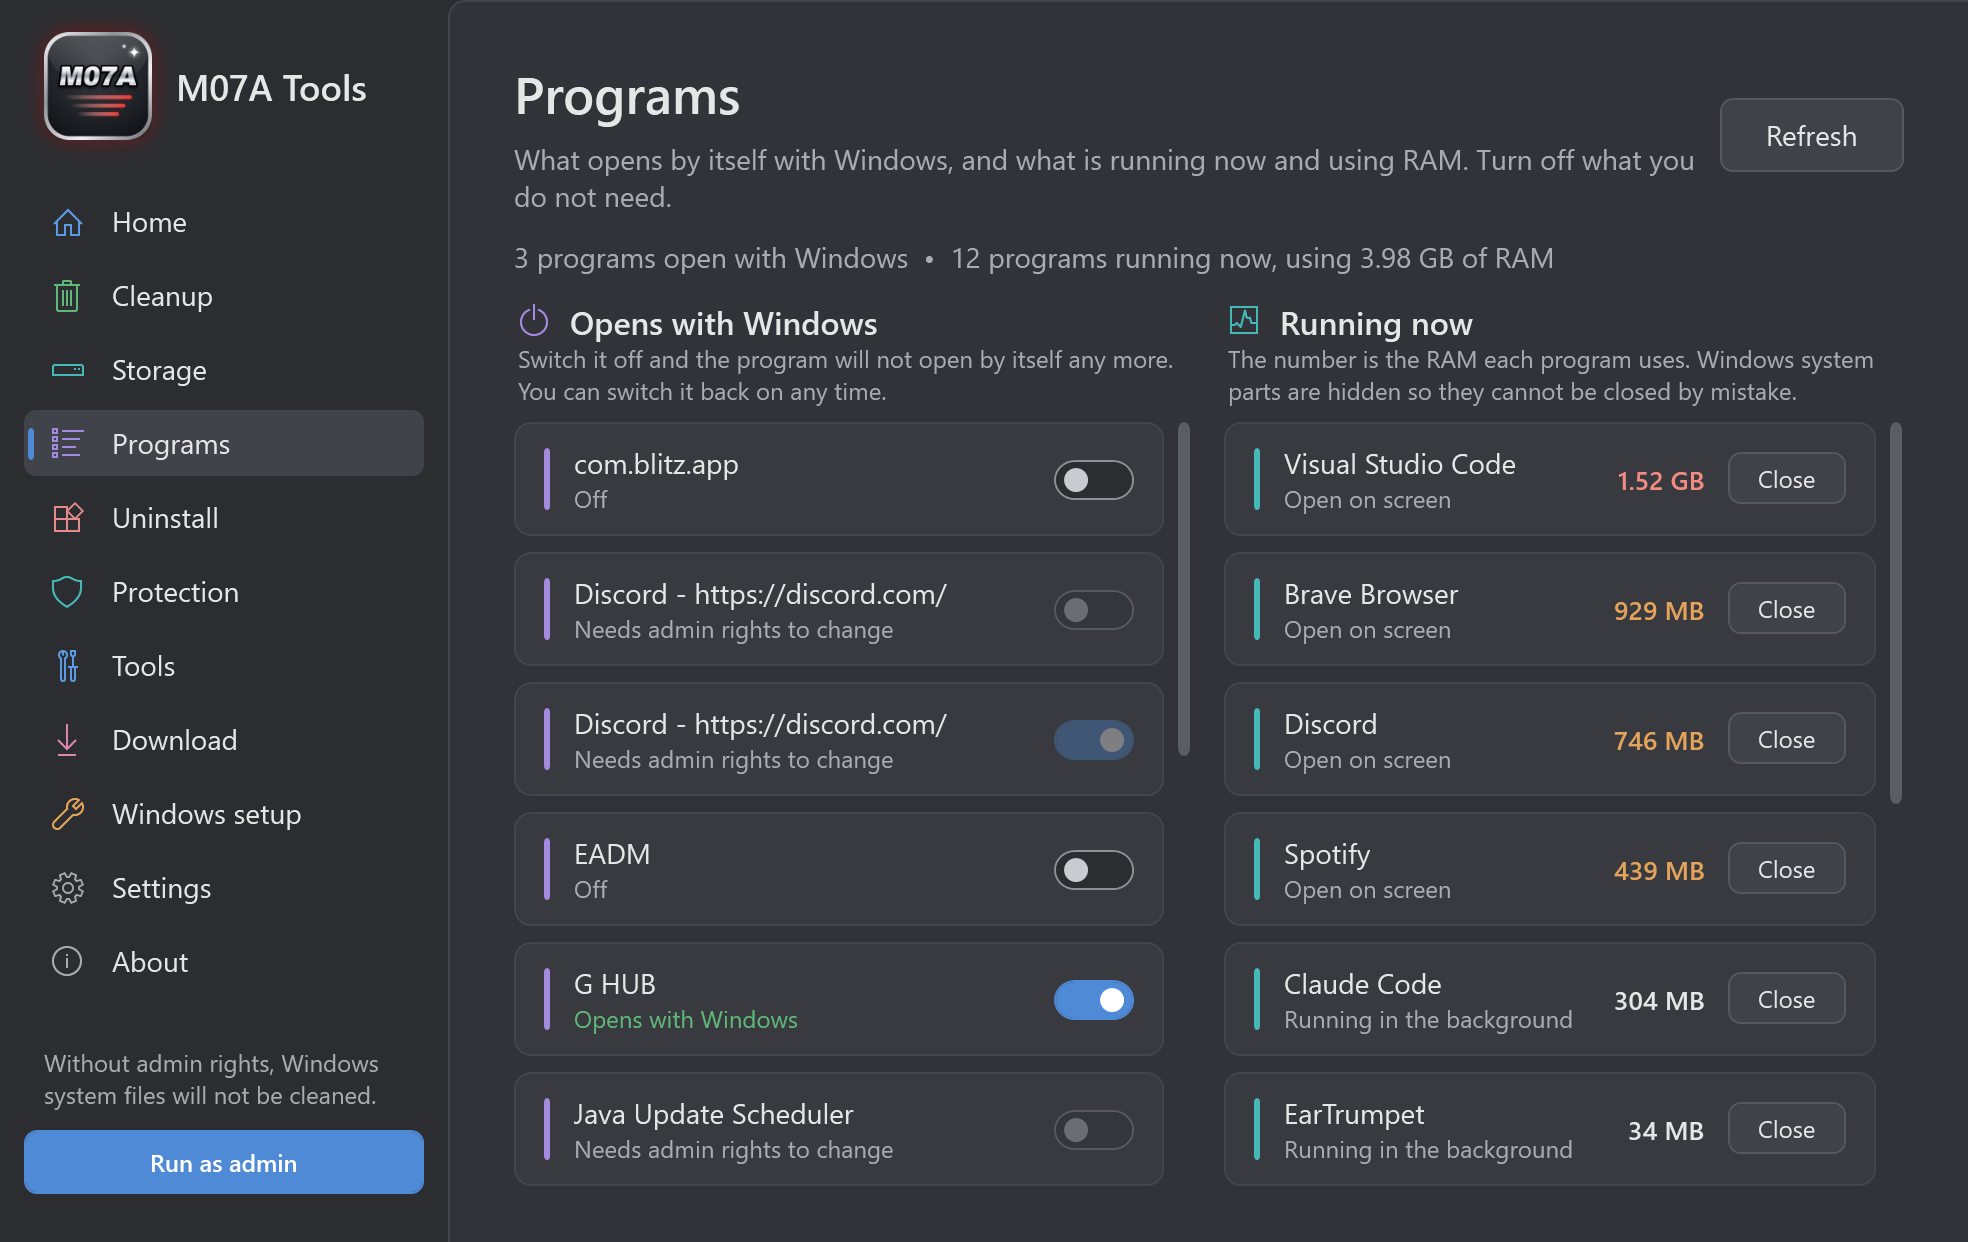
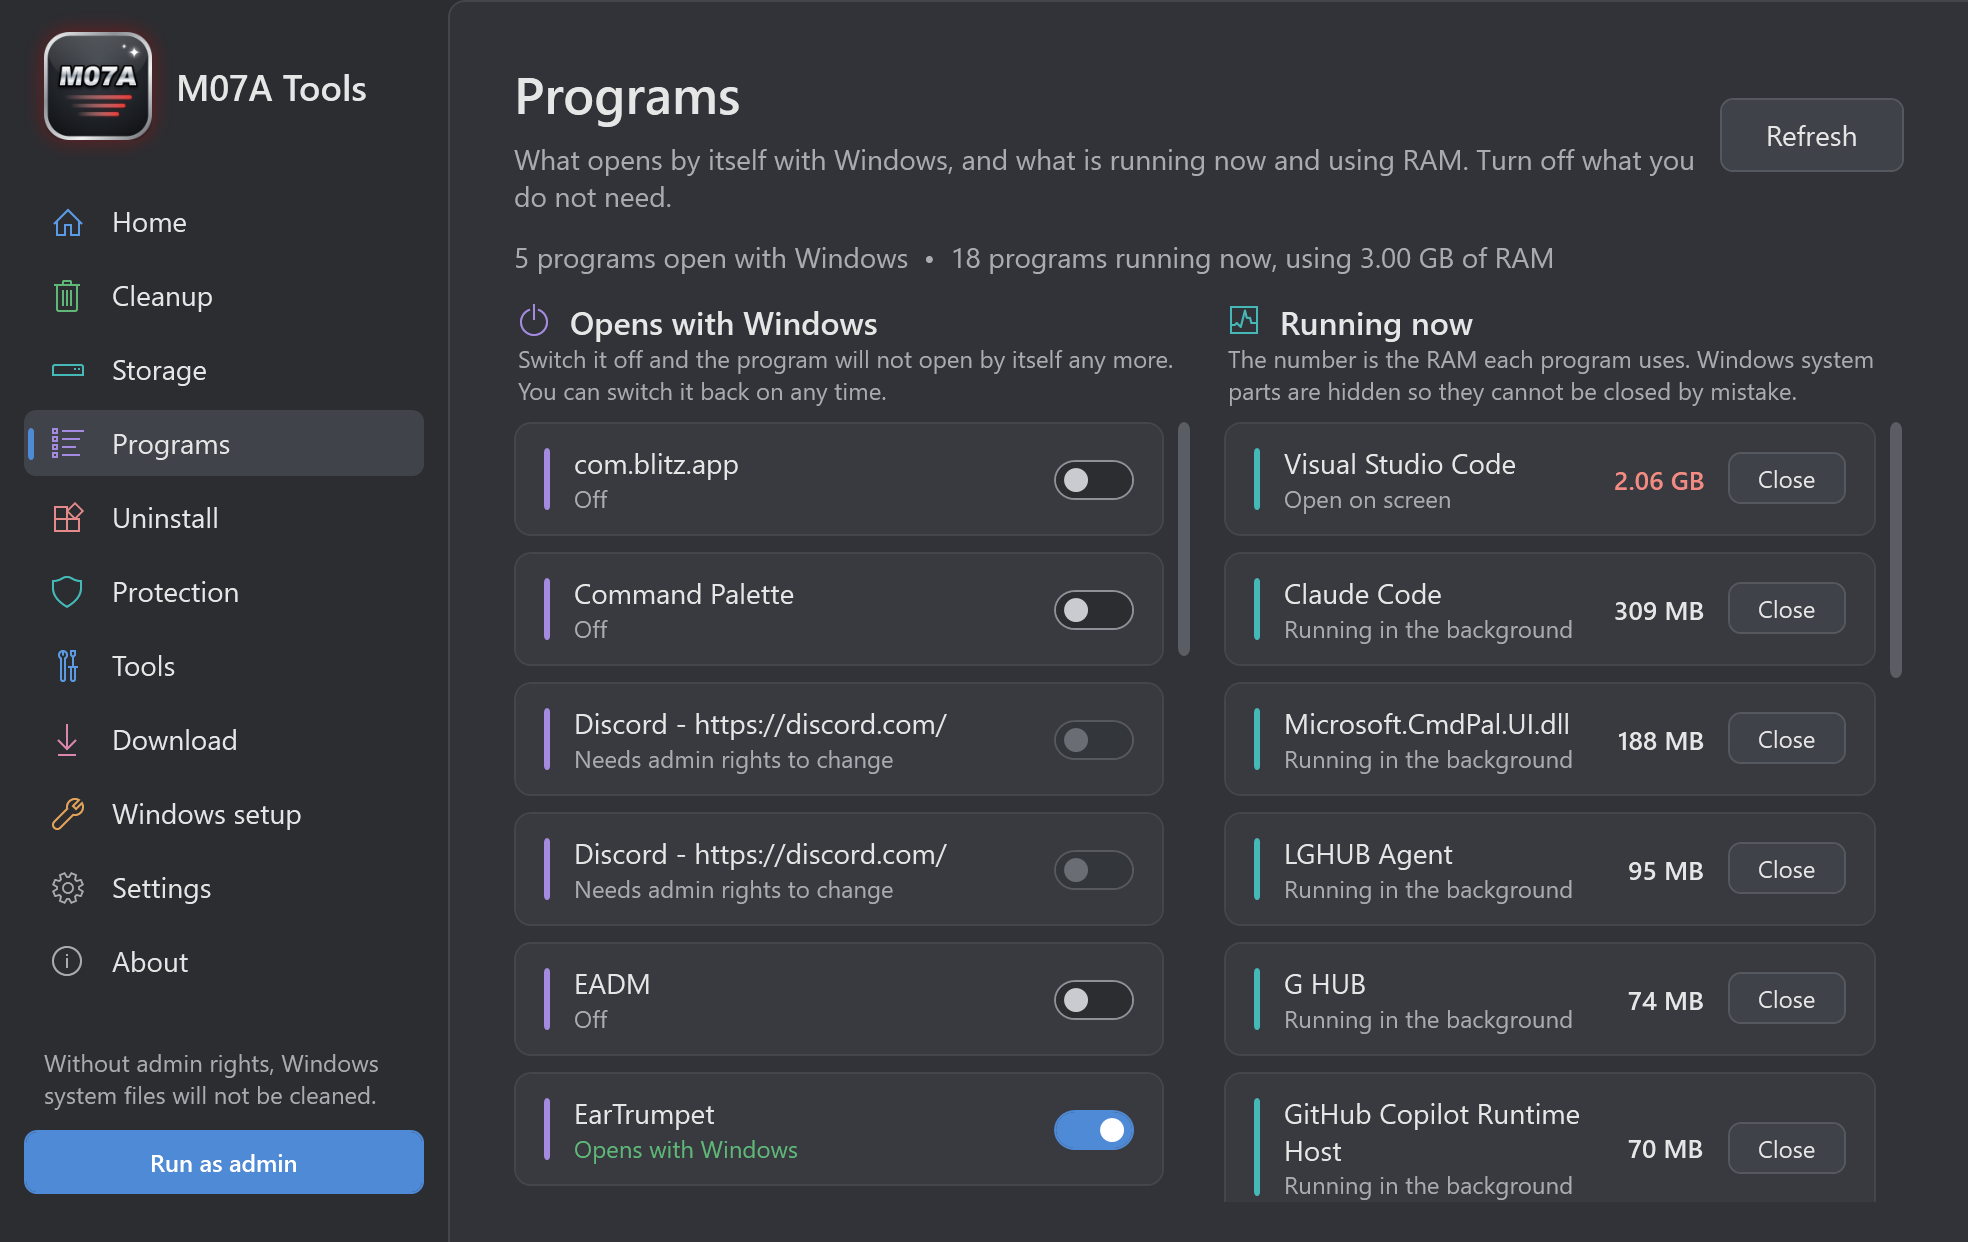
M07A Tools 3.1.1: startup list reads Store apps and logon tasks

diff --git a/index.html b/index.html
@@ -228,7 +228,7 @@ header.scrolled { background: rgba(28, 29, 33, .96); box-shadow: 0 8px 30px rgba
           </a>
           <a class="btn" href="#screens">شاهد الواجهة</a>
         </div>
-        <div class="meta"><span>ويندوز 10 و11</span><span>بالعربية والإنجليزية</span><span class="ltr">390 KB</span></div>
+        <div class="meta"><span>ويندوز 10 و11</span><span>بالعربية والإنجليزية</span><span class="ltr">391 KB</span></div>
       </div>
       <img class="logo-big" src="img/logo.png" alt="شعار M07A Tools" width="340" height="340">
     </div>
